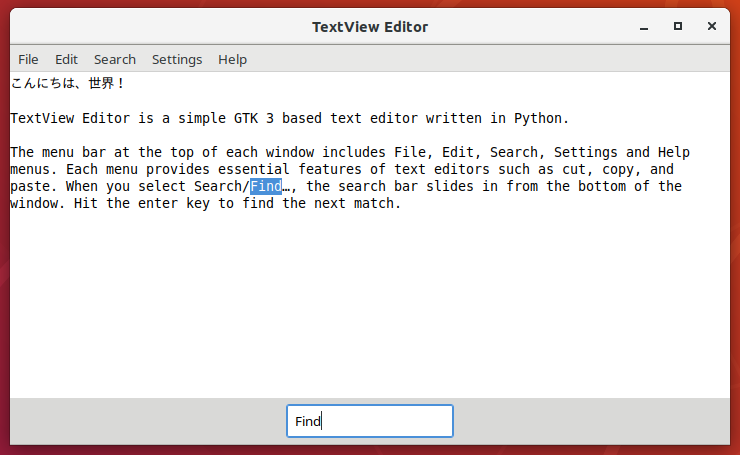
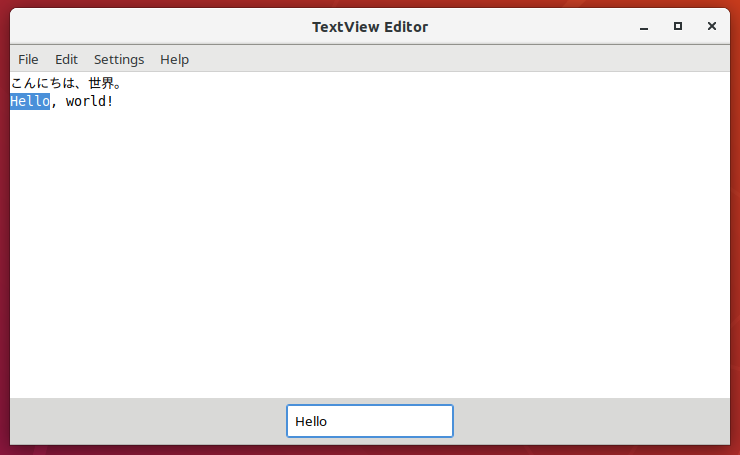
Support install as a freedesktop application
Makefile : New
NOTICE : Update
README.md : Update
screenshot.png : Update
textview-editor.desktop : New
textview-editor.png : New
textview-editor.py : Detect resource directory dynamically

diff --git a/textview-editor.py b/textview-editor.py
@@ -422,6 +422,7 @@ class EditorWindow(Gtk.ApplicationWindow):
         dialog.set_documenters(documenters)
         dialog.set_website("http://www.esrille.com/")
         dialog.set_website_label("Esrille Inc.")
+        dialog.set_logo_icon_name("textview-editor")
 
         # to close the dialog when "close" is clicked, e.g. on RPi,
         # we connect the "response" signal to about_response_callback
@@ -439,13 +440,18 @@ class EditorApplication(Gtk.Application):
                          flags=Gio.ApplicationFlags.HANDLES_OPEN,
                          **kwargs)
 
+        self.resourcedir = os.path.dirname(sys.argv[0])
+        if not sys.argv[0].endswith(".py"):
+            # application has been installed
+            self.resourcedir = os.path.dirname(self.resourcedir)
+            self.resourcedir += '/share/textview-editor'
+
         self.lang = locale.getdefaultlocale()[0]
-        filename = os.path.splitext(sys.argv[0])[0] + '.' + self.lang + ".json"
+        filename = self.resourcedir + "/textview-editor." + self.lang + ".json"
         try:
             with open(filename, 'r') as file:
                 self.uitexts = json.load(file)
         except OSError as e:
-            print("Error: " + e.strerror)
             self.uitexts = {}
 
     def do_activate(self):
@@ -455,13 +461,12 @@ class EditorApplication(Gtk.Application):
     def do_startup(self):
         Gtk.Application.do_startup(self)
         builder = Gtk.Builder()
-        filename = os.path.splitext(sys.argv[0])[0] + '.menu.' + self.lang + ".ui"
+        filename = self.resourcedir + "/textview-editor.menu." + self.lang + ".ui"
         try:
             builder.add_from_file(filename)
         except GObject.GError as e:
-            print("Error: " + e.message)
             try:
-                filename = os.path.splitext(sys.argv[0])[0] + ".menu.ui"
+                filename =  self.resourcedir + "/textview-editor.menu.ui"
                 builder.add_from_file(filename)
             except GObject.GError as e:
                 print("Error: " + e.message)

diff --git a/README.md b/README.md
@@ -3,18 +3,32 @@
 ## Usage
 
 ```
-$ ./textview-editor.py [filename...]
+$ textview-editor [filename...]
 ```
 
 ## Screenshot
 
 ![screenshot of a TextView Editor window](screenshot.png)
 
+## Install TextView Editor
+
+```
+$ git clone https://github.com/esrille/textview-editor.git
+$ make
+$ sudo make install
+```
+
+To uninstall, use:
+
+```
+$ sudo make uninstall
+```
+
 ## Description
 
-TextView Editor is a simple [GTK](https://www.gtk.org/) 3 based text editor written in Python.
+![TextView Editor icon](textview-editor.png) TextView Editor is a simple [GTK](https://www.gtk.org/) 3 based text editor written in Python.
 
-The menu bar at the top of each window includes File, Edit, Search, Settings and Help menus. Each menu provides essential features of text editors such as cut, copy, and paste. When you select Search/Find…, the search bar slides in from the bottom of the window. Hit the enter key to find the next match.
+The menu bar at the top of each window includes File, Edit, Settings and Help menus. Each menu provides essential features of text editors such as cut, copy, and paste. When you select Search/Find…, the search bar slides in from the bottom of the window. Hit the enter key to find the next match.
 
 In TextView Editor, a [Gtk.Application](https://python-gtk-3-tutorial.readthedocs.io/en/latest/application.html) manages multiple [Gtk.ApplicationWindow](https://developer.gnome.org/gtk3/stable/GtkApplicationWindow.html)s. Each application window has the following widget hierarchy.
 
